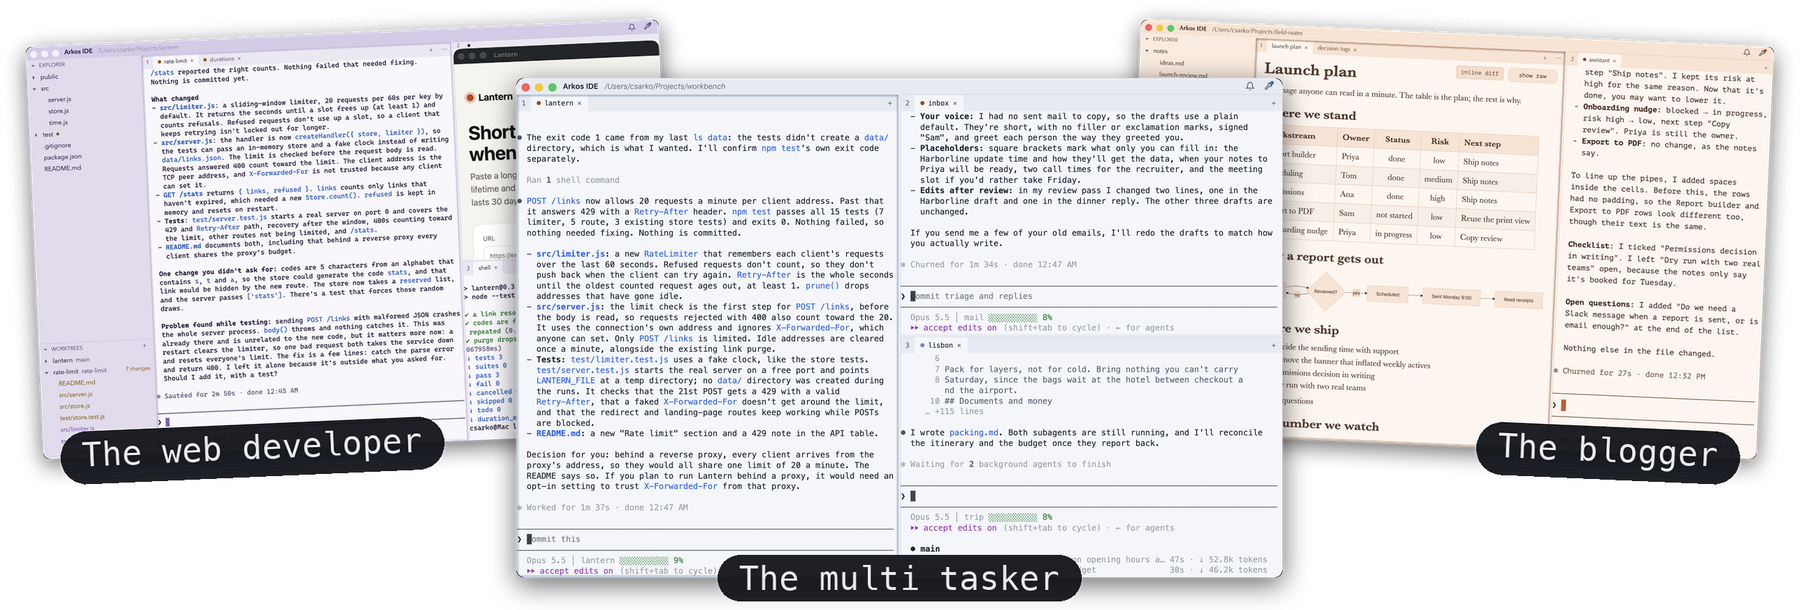
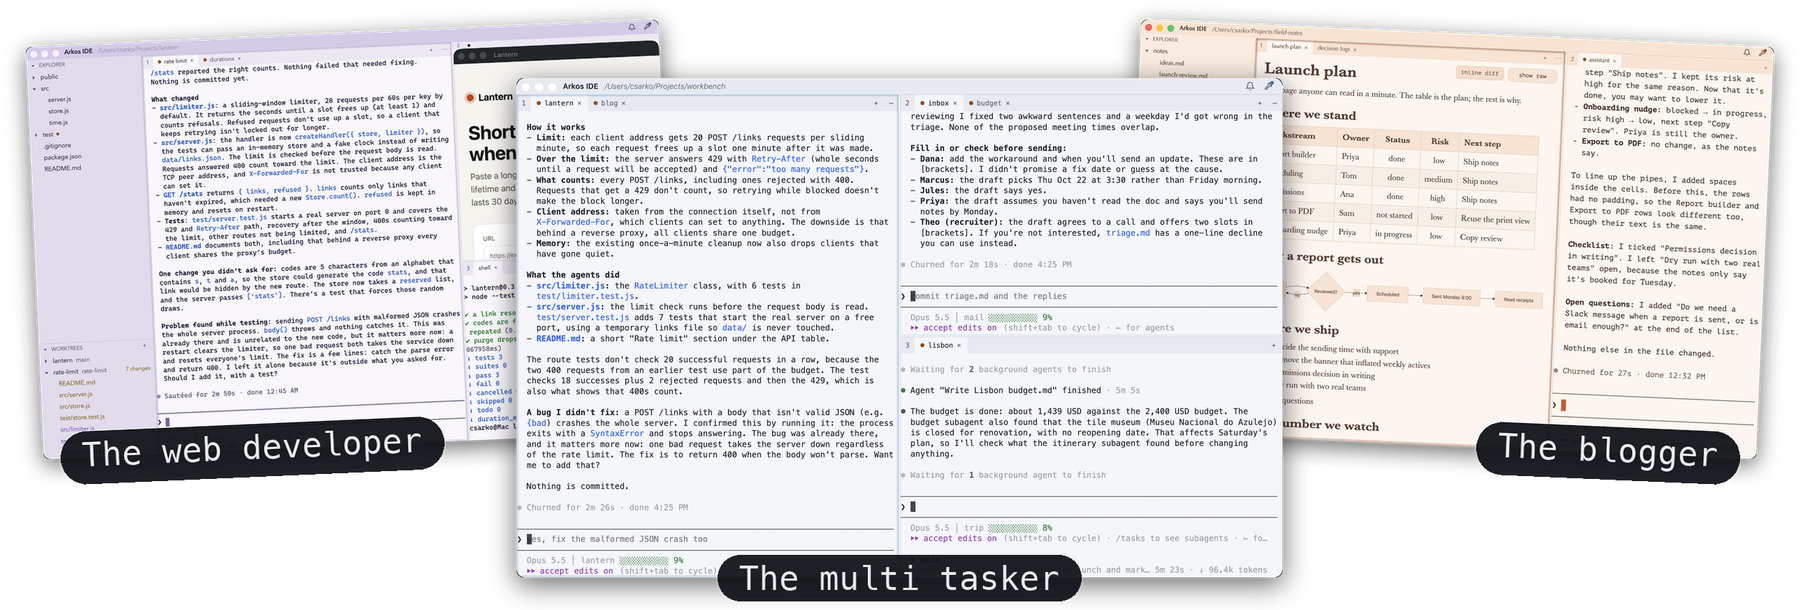
The multitasker with two tabs a pane: unrelated workstreams waiting on you
Behind the lantern and inbox sessions, a blog and a household-budget
session (a new small fixture) that have finished and wait, so the hero
shows the working and the waiting marks side by side. The heroes are
recomposed from it.

Claude-Session: https://claude.ai/code/session_015xrVD54zbvkgksJUndxfpr

diff --git a/scripts/shoot/demo/budget/README.md b/scripts/shoot/demo/budget/README.md
@@ -1,0 +1,8 @@
+# Household budget
+
+One CSV, one row per category per month, in euros. `budget.csv` is the source; the
+monthly note at the bottom of this file is what gets sent to the household.
+
+## This month's note
+
+(not written yet)
